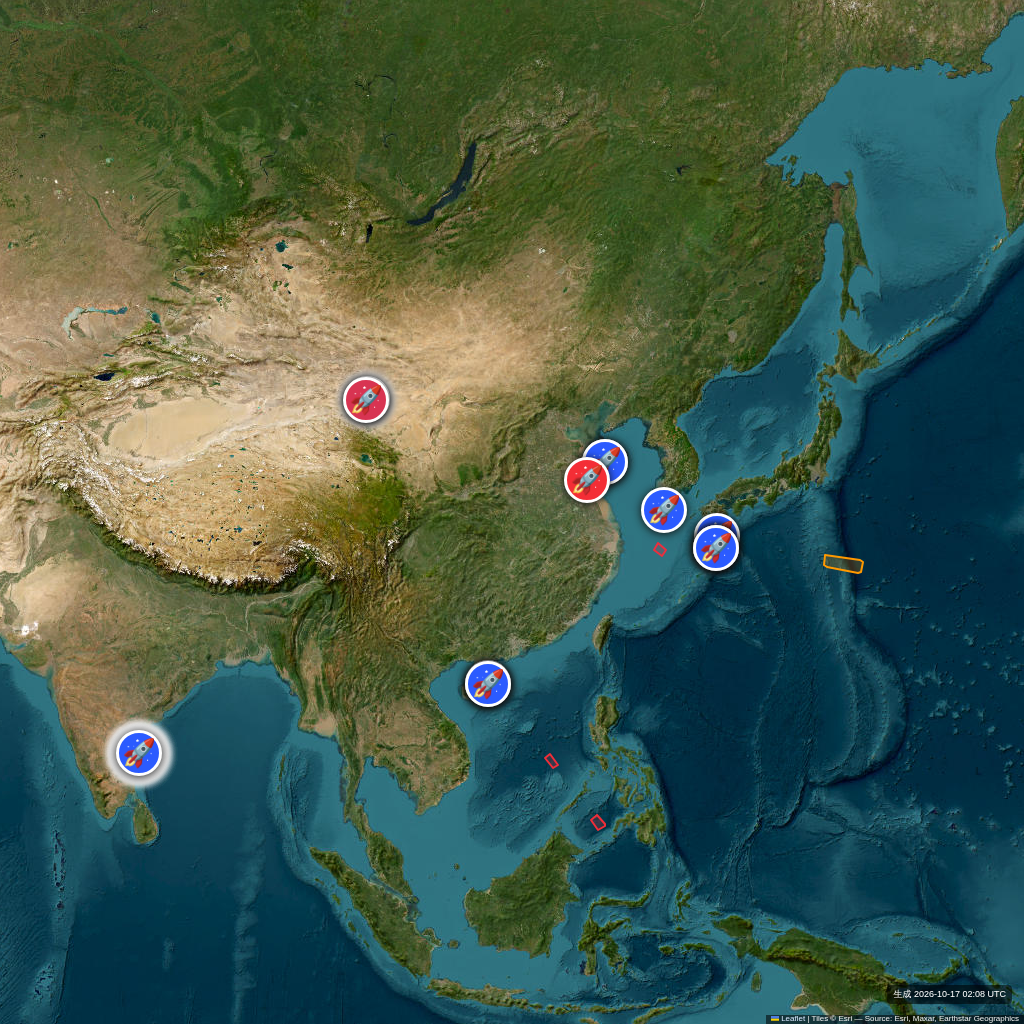
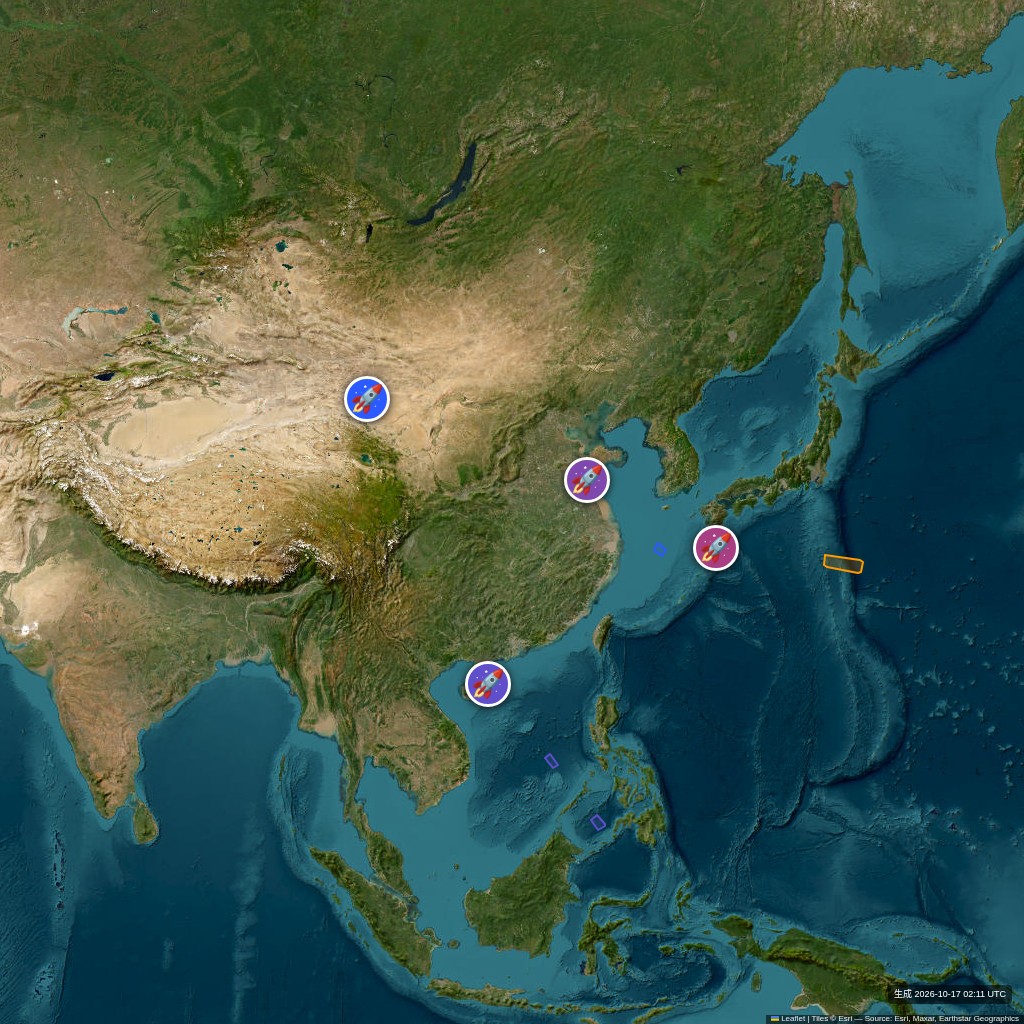
Limit widget map to next seven days

diff --git a/widget/render.html b/widget/render.html
@@ -39,11 +39,14 @@
       const allWarnings=[];
       let launchRecords=[];
       let layersByKind={};
+      const windowStart=Date.now();
+      const windowEnd=windowStart+7*86400000;
       let timeline={minTs:Date.now(),maxTs:Date.now()+86400000};
       const failSoft = (kind, err) => { console.warn(kind, err || 'unavailable'); ready[kind] = true; finishIfReady(); };
       const finishIfReady = () => {
         if (!Object.values(ready).every(Boolean)) return;
-        timeline=getTimelineBounds(allWarnings,launchRecords.map(x=>parseWidgetDate(x.net||x.window_start||x.win_open||x['Launch Date and Time (UTC)']||'')).filter(Number.isFinite));
+        const visibleLaunchTimes=launchRecords.map(x=>parseWidgetDate(x.net||x.window_start||x.win_open||x['Launch Date and Time (UTC)']||'')).filter(ts=>Number.isFinite(ts)&&ts>=windowStart&&ts<=windowEnd);
+        timeline=getTimelineBounds(allWarnings,visibleLaunchTimes);
         drawLaunches(launchRecords);
         styleWarningLayers();
         document.getElementById('generatedAt').textContent = '生成 ' + new Date().toISOString().replace('T',' ').slice(0,16) + ' UTC';
@@ -51,9 +54,8 @@
       };
 
       function getTimelineBounds(rows,extraTimes=[]) {
-        const now=Date.now();
         const times=rows.map(r=>Date.parse(r.from_utc)).filter(Number.isFinite).concat(extraTimes);
-        return {minTs:now,maxTs:Math.max(now+86400000,...times)};
+        return {minTs:windowStart,maxTs:Math.max(windowStart+86400000,...times)};
       }
       function colorByTime(ts) {
         if(!Number.isFinite(ts)||timeline.maxTs<=timeline.minTs) return '#d33';
@@ -69,6 +71,10 @@
         return Date.UTC(Number(m[1]),months[m[2]],Number(m[3]),Number(m[4]),Number(m[5]));
       }
       function isMaritime(row) { return row.country==='Maritime'||row.fir==='MSI'; }
+      function overlapsNextSevenDays(row) {
+        const from=Date.parse(row.from_utc),to=Date.parse(row.to_utc);
+        return Number.isFinite(from)&&from<=windowEnd&&(!Number.isFinite(to)||to>=windowStart);
+      }
       function twilightGlow(row) {
         const from=Date.parse(row.from_utc),to=Date.parse(row.to_utc);
         if(!Number.isFinite(from)||!Number.isFinite(Number(row.lat))||(Number.isFinite(to)&&(to-from)>12*3600000)||!window.SunCalc) return false;
@@ -107,6 +113,7 @@
           if (!Number.isFinite(lat) || !Number.isFinite(lon) || lat<4 || lat>55 || lon<78 || lon>148) continue;
           const time=launch.net || launch.window_start || launch.win_open || launch['Launch Date and Time (UTC)'] || '';
           const ts=parseWidgetDate(time),past=Number.isFinite(ts)&&ts<Date.now();
+          if(!Number.isFinite(ts)||ts<windowStart||ts>windowEnd) continue;
           const color=past?'#22c55e':colorByTime(ts);
           const glow=!past&&launchTwilight(ts,lat,lon);
           const icon=L.divIcon({ className:'', html:`<div class="rocket-marker${glow?' twilight-glow':''}" style="background:${color}">🚀</div>`, iconSize:[46,46], iconAnchor:[23,23] });
@@ -143,7 +150,8 @@
           const visit=(group)=>group.eachLayer(child=>{
             if(child.eachLayer) visit(child);
             const name=String(child.feature?.properties?.name||'').toUpperCase();
-            const row=byName.get(name); if(!row||typeof child.setStyle!=='function') return;
+            const row=byName.get(name); if(typeof child.setStyle!=='function') return;
+            if(!row||!overlapsNextSevenDays(row)) { child.setStyle({opacity:0,fillOpacity:0,weight:0,interactive:false}); return; }
             const color=isMaritime(row)?'#ff9900':colorByTime(Date.parse(row.from_utc));
             const glow=twilightGlow(row);
             child.setStyle({color,fillColor:color,fillOpacity:0.2,weight:glow?4:2,opacity:1});
@@ -153,7 +161,7 @@
         }
       }
       for (const [kind,path] of [['notams','../notams.kml'],['msi','../msi.kml']]) {
-        loadWarningCsv(kind).then(rows=>{ allWarnings.push(...rows); ready[kind==='msi'?'msiCsv':'notamCsv']=true; finishIfReady(); });
+        loadWarningCsv(kind).then(rows=>{ allWarnings.push(...rows.filter(overlapsNextSevenDays)); ready[kind==='msi'?'msiCsv':'notamCsv']=true; finishIfReady(); });
         const layer=omnivore.kml(path + '?widget=' + Date.now());
         layersByKind[kind]=layer;
         layer.on('ready',()=>{ layer.addTo(map); ready[kind]=true; finishIfReady(); });

diff --git a/widget/index.html b/widget/index.html
@@ -12,12 +12,13 @@
     main { width:min(100vw,100vh); }
     img { display:block; width:100%; aspect-ratio:1; object-fit:cover; }
     footer { padding:5px 8px; color:#c7d2dc; font-size:12px; }
+    footer a { color:#9cc7ff; margin-left:8px; }
   </style>
 </head>
 <body>
   <main>
     <img id="mapImage" alt="中国及周边火箭与航行警告地图">
-    <footer>服务端每 3 小时更新；小组件实际刷新时间由 iOS 调度。<span id="updated"></span></footer>
+    <footer>服务端每 3 小时更新；小组件实际刷新时间由 iOS 调度。<span id="updated"></span><a href="./china-rocket-map.swt">下载 ScriptWidget 组件</a></footer>
   </main>
   <script>
     const raw='https://raw.githubusercontent.com/lzq1206/notam-whisper/main/widget/';

diff --git a/widget/scriptwidget-package/main.jsx b/widget/scriptwidget-package/main.jsx
@@ -1,0 +1,15 @@
+// 中国及周边火箭地图 - ScriptWidget
+const cacheBucket = Math.floor(Date.now() / 10000);
+const imageUrl = `https://rocket.rainywhisper.com/widget/china-square.png?v=${cacheBucket}`;
+
+$render(
+  <zstack frame="max" background="#07141e" linkurl="https://rocket.rainywhisper.com/widget/">
+    <image
+      url={imageUrl}
+      frame="max"
+      ratio={1}
+      mode="fill"
+      accentedRenderingMode="fullColor"
+    />
+  </zstack>
+);

diff --git a/widget/README.md b/widget/README.md
@@ -1,10 +1,12 @@
 # iPhone 火箭地图小组件
 
-- 网页子页/图片预览：`https://rocket.rainywhisper.com/widget/`
-- 渲染模板（服务端截图用）：`widget/render.html`
-- PNG 订阅源：`https://raw.githubusercontent.com/lzq1206/notam-whisper/main/widget/china-square.png`
-- 定时：GitHub Actions 每 3 小时生成 1024×1024 PNG；失败时不提交空图，保留上一版。
-- 缓存：Scriptable 请求按 10 秒时间片加查询参数并要求重新验证，减少 CDN/客户端拿到旧图的概率。
-- 安装：将 `Scriptable-widget.js` 完整复制到 iPhone Scriptable，新建脚本运行一次，再添加 Scriptable 的小号方形组件并选择此脚本。
+- 网页预览：`https://rocket.rainywhisper.com/widget/`
+- ScriptWidget 一键下载包：`https://rocket.rainywhisper.com/widget/china-rocket-map.swt`
+- PNG 订阅源：`https://rocket.rainywhisper.com/widget/china-square.png`
+- 地图范围：未来 7 天内有效的 NOTAM/MSI 和发射；颜色渐变仅按此窗口内记录计算。
+- 定时：GitHub Actions 每 3 小时生成 1024×1024 PNG；失败时保留上一版。
+- ScriptWidget 导入：iPhone 点击 `.swt` 下载链接，点“分享/打开方式”并选择 ScriptWidget 导入，然后添加 ScriptWidget 的小号组件。
+- ScriptWidget 包源文件：`scriptwidget-package/widget.json`、`scriptwidget-package/main.jsx`。
+- 旧版 Scriptable 用户仍可使用 `Scriptable-widget.js`。
 
-iOS 控制小组件实际刷新时机，`refreshAfterDate` 是最早刷新时间，并非准点承诺。
+iOS 控制小组件实际刷新时机，配置的 3 小时是目标最早刷新周期，并非准点承诺。
